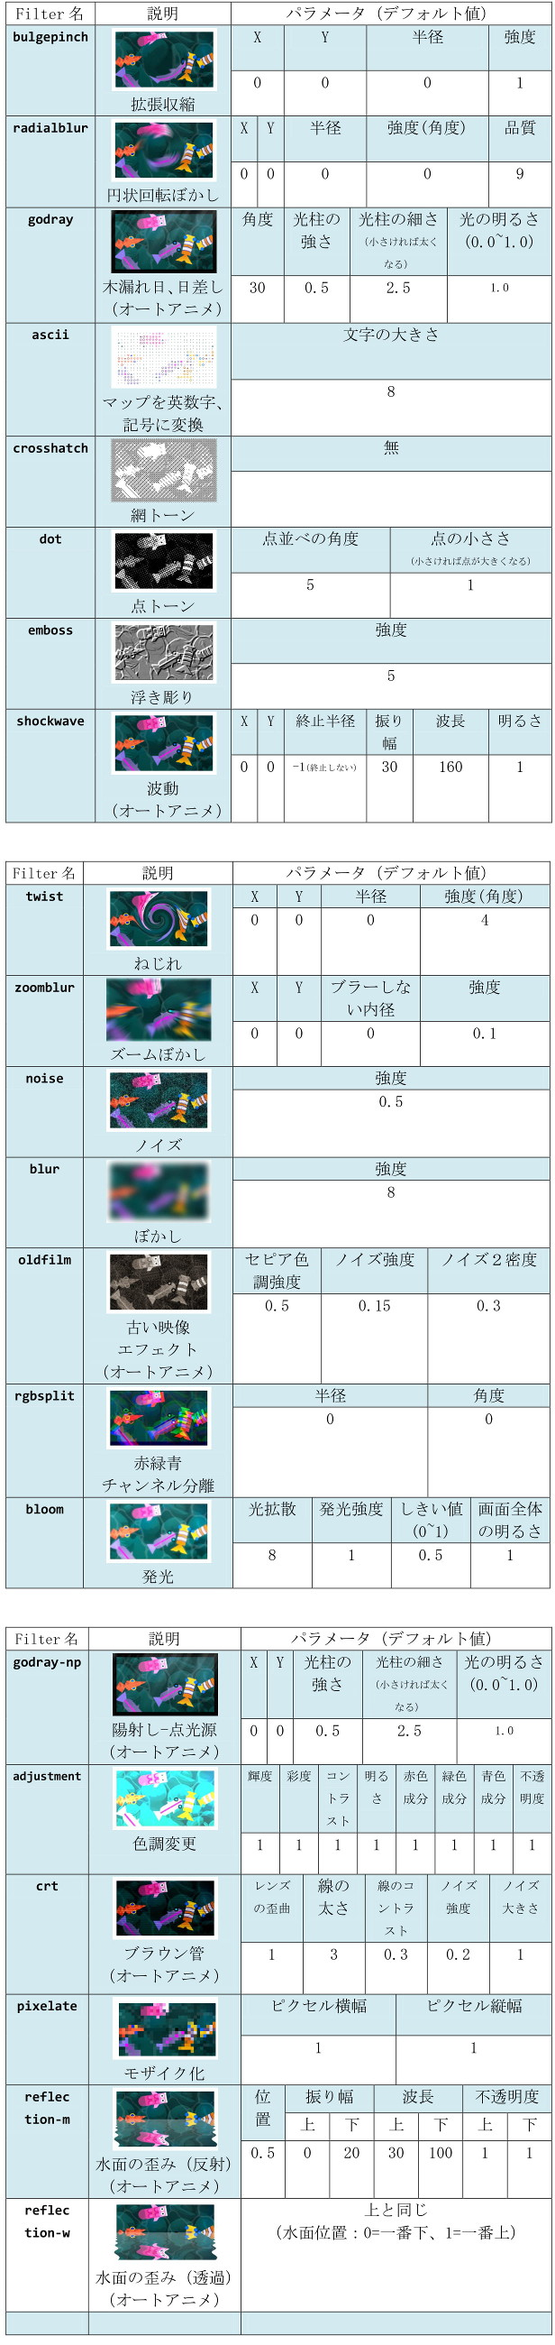
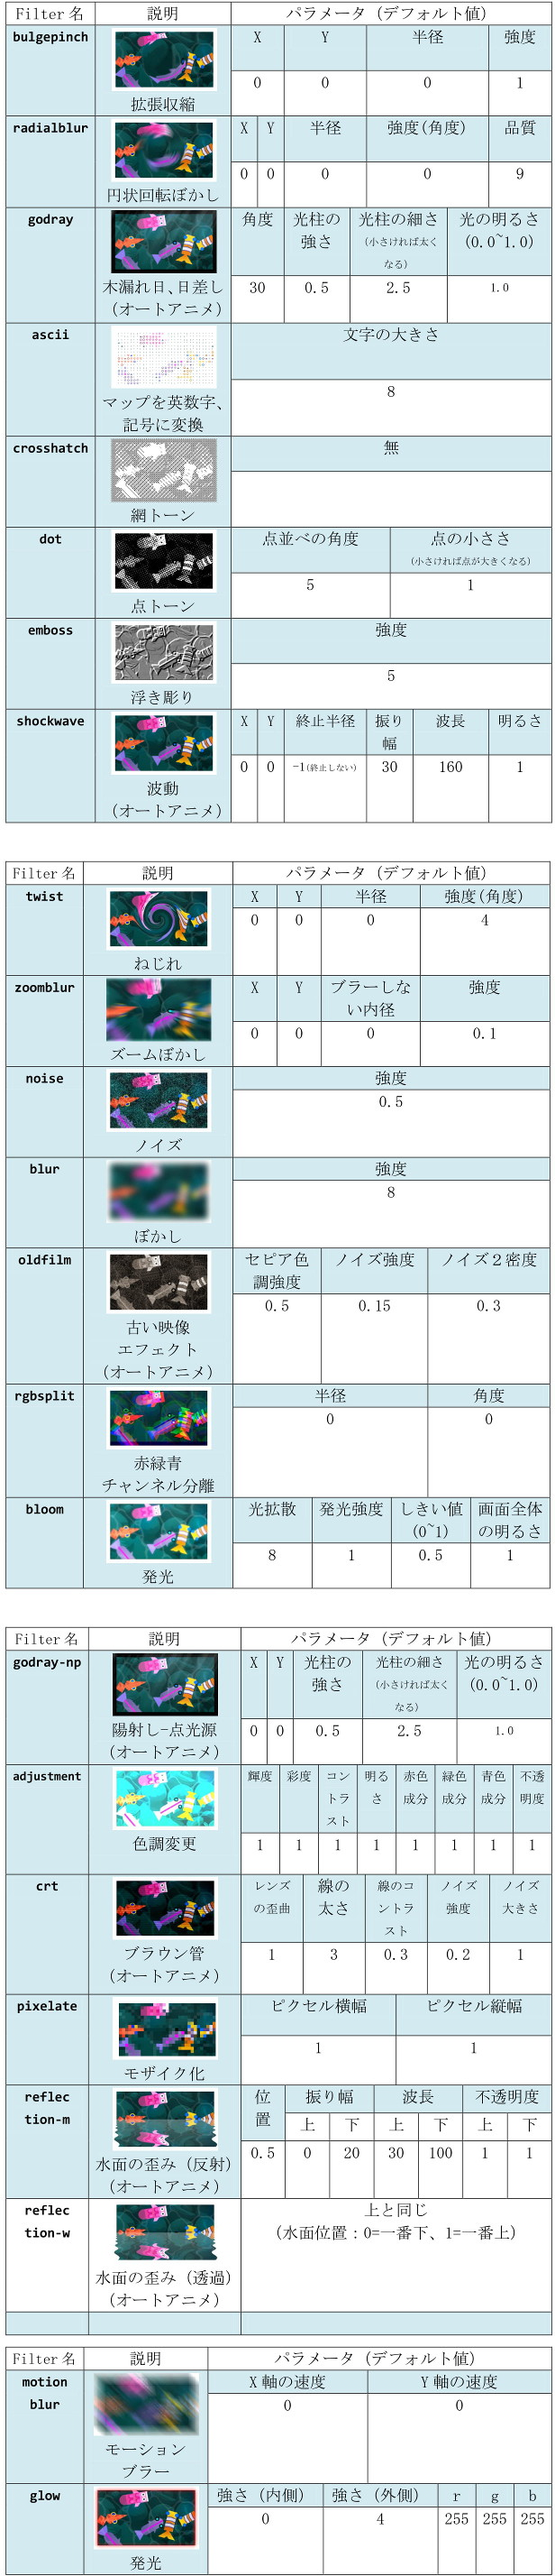
Add motion-blur, glow filter

diff --git a/RMMVplugins/FIlterController/FilterController.js b/RMMVplugins/FIlterController/FilterController.js
@@ -539,6 +539,10 @@ function Filter_Controller() {
     _FSInit["reflection-w"] = function(filter) {
         filter.mirror = false;
     };
+
+    _FSInit["motionblur"] = function(filter) {
+        filter.kernelSize = 9;
+    };
     
     Filter_Controller.filterSpecialInit = _FSInit;
     //=============================================================================
@@ -580,6 +584,8 @@ function Filter_Controller() {
     _defaultParam["crt"]            = [1,3,0.3,0.2,1];
     _defaultParam["reflection-m"]   = [0.5, 0,20, 30,100, 1,1];
     _defaultParam["reflection-w"]   = [0.5, 0,20, 30,100, 1,1];
+    _defaultParam["motionblur"]     = [0,0];
+    _defaultParam["glow"]           = [0,4,255,255,255];
     
     Filter_Controller.defaultFilterParam = _defaultParam;
     
@@ -831,6 +837,19 @@ function Filter_Controller() {
     };
     _updateFilterHandler["reflection-m"] = ref;
     _updateFilterHandler["reflection-w"] = ref;
+    
+    var mblr = function(filter, cp) {
+        filter.velocity = [cp[0], cp[1]];
+    };
+    _updateFilterHandler["motionblur"] = mblr;
+    
+    var glow = function(filter, cp) {
+        filter.innerStrength = cp[0];
+        filter.outerStrength = cp[1];
+        // r,g,b to number(0x); ~~ is faster than floor()
+        filter.color = (~~cp[2])*65536 + (~~cp[3])*256 + (~~cp[4]);
+    };
+    _updateFilterHandler["glow"] = glow;
     
     Filter_Controller.updateFilterHandler = _updateFilterHandler;
     //=============================================================================
@@ -1361,5 +1380,7 @@ _FNMap["pixelate"]       = PIXI.filters.PixelateFilter;
 _FNMap["crt"]            = PIXI.filters.CRTFilter;
 _FNMap["reflection-m"]   = PIXI.filters.ReflectionFilter;
 _FNMap["reflection-w"]   = PIXI.filters.ReflectionFilter;
+_FNMap["motionblur"]     = PIXI.filters.MotionBlurFilter;
+_FNMap["glow"]           = PIXI.filters.GlowFilter;
     
 Filter_Controller.filterNameMap = _FNMap;
